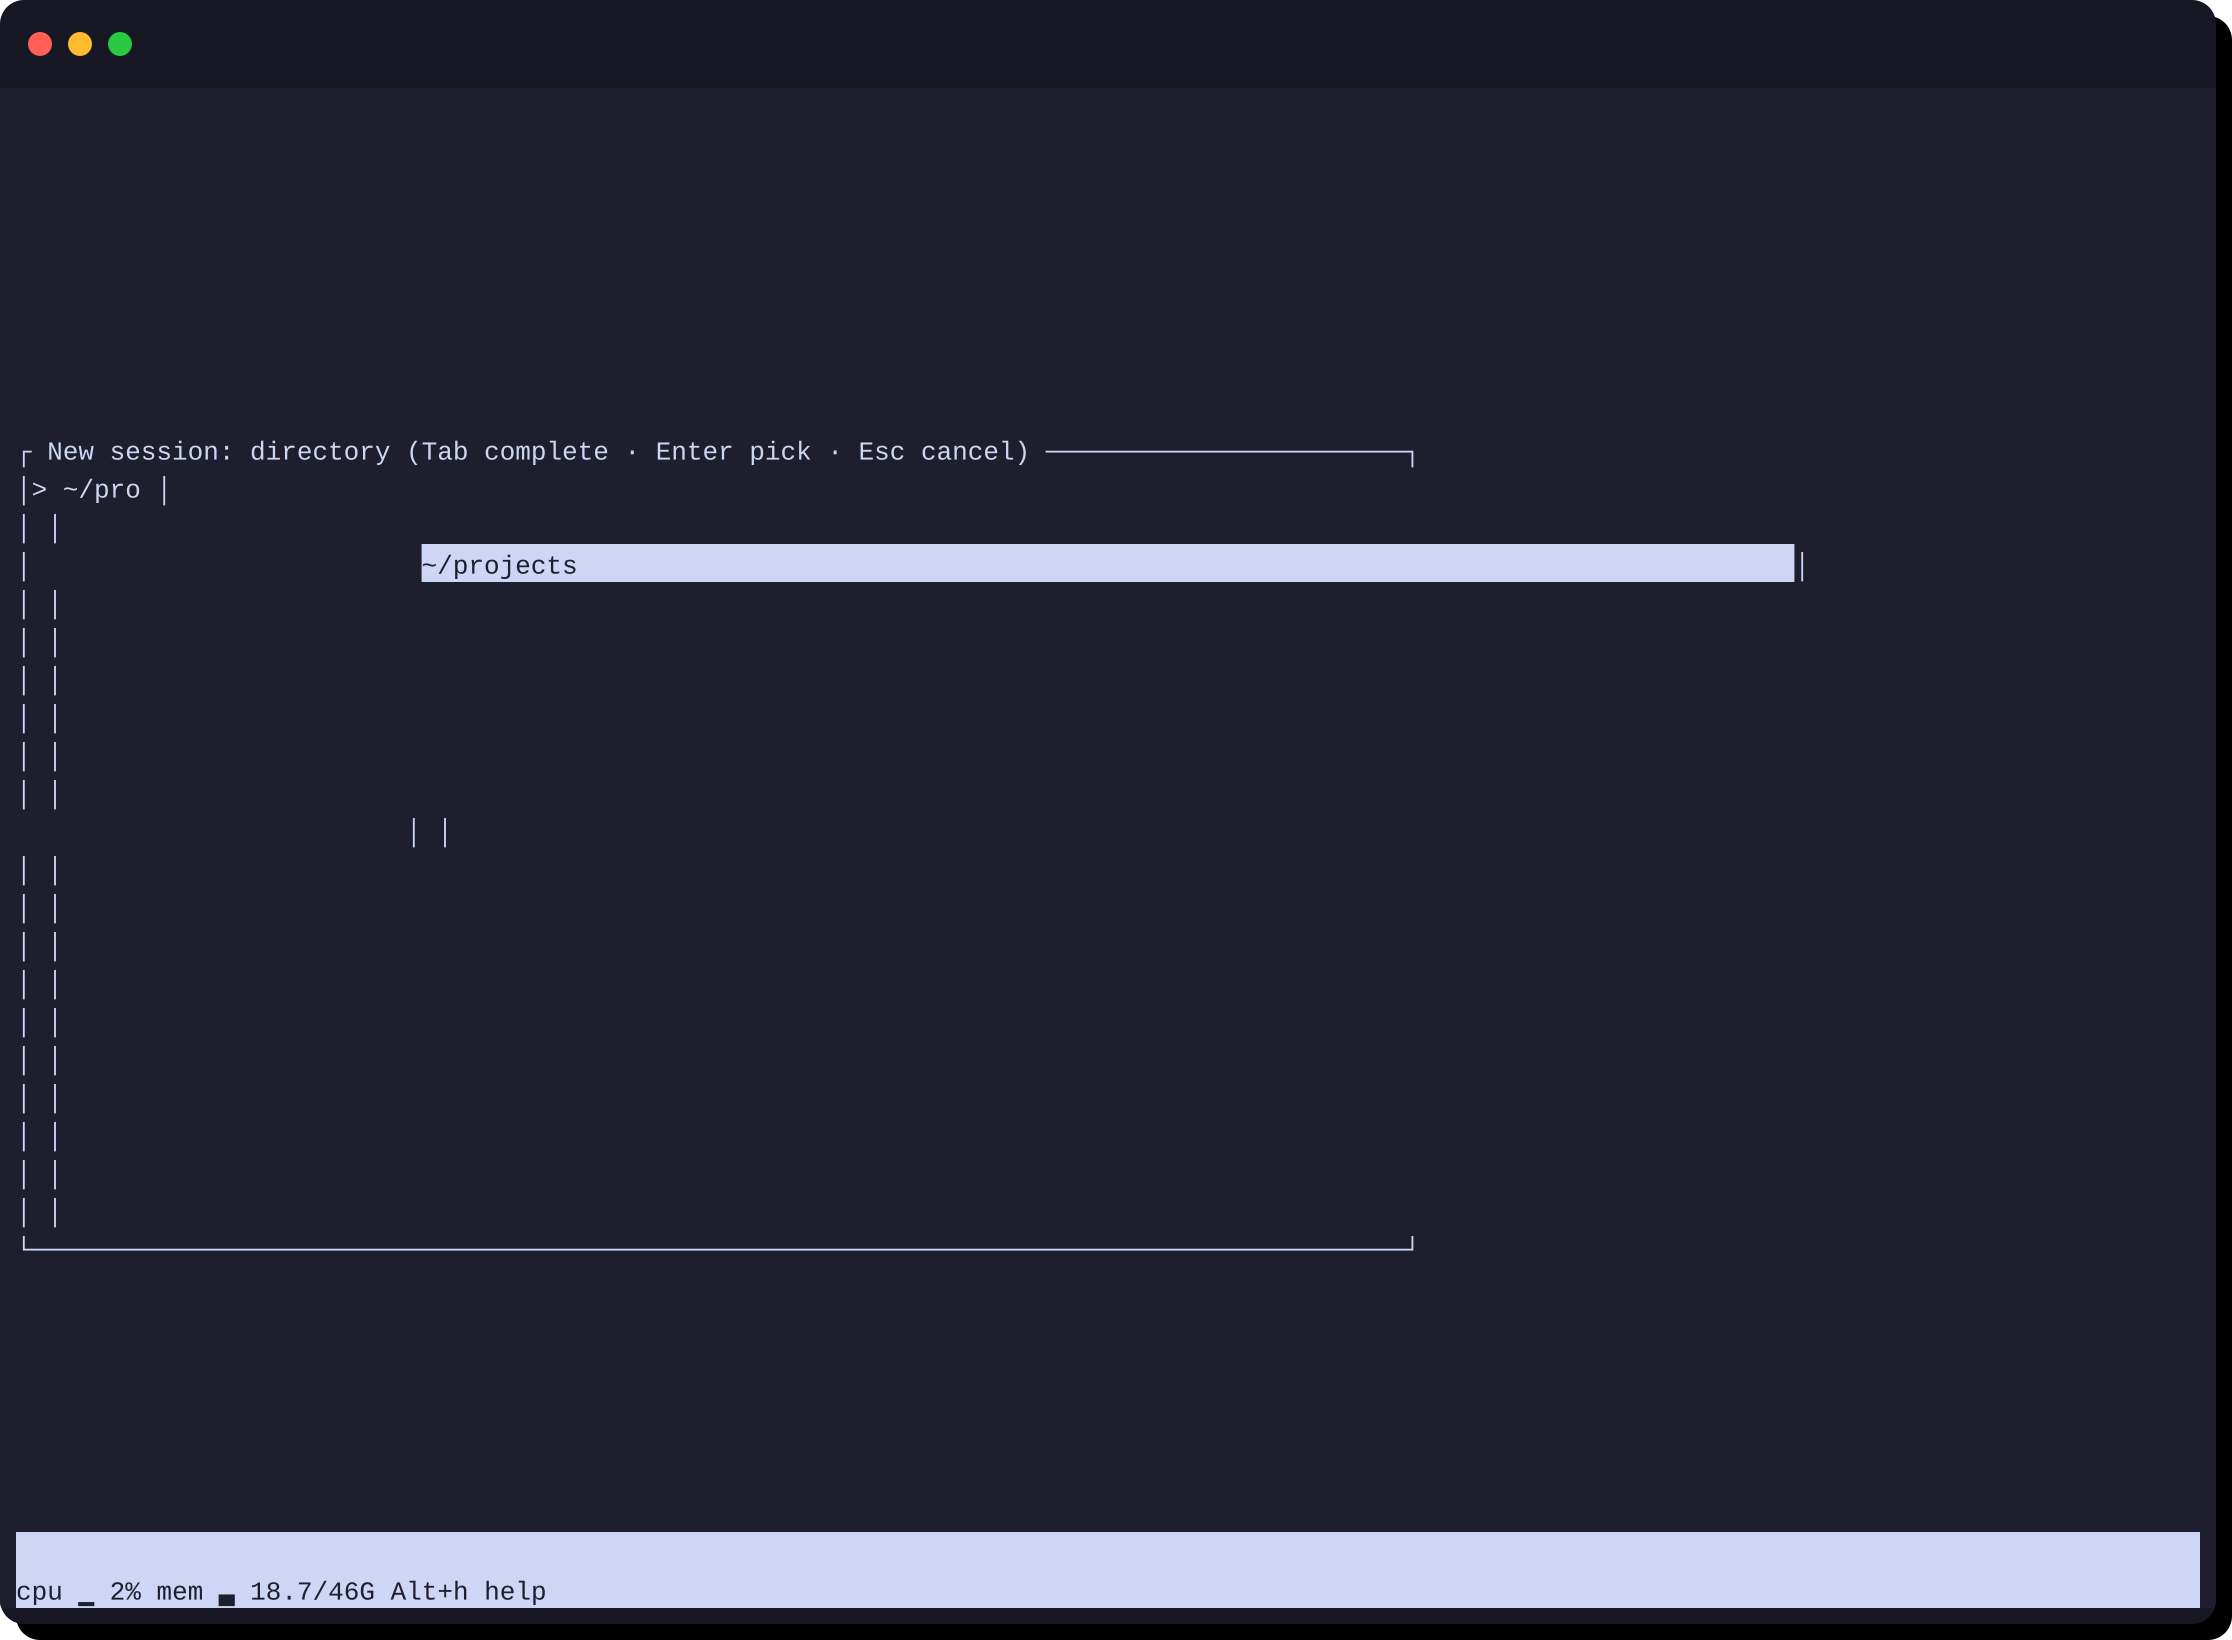
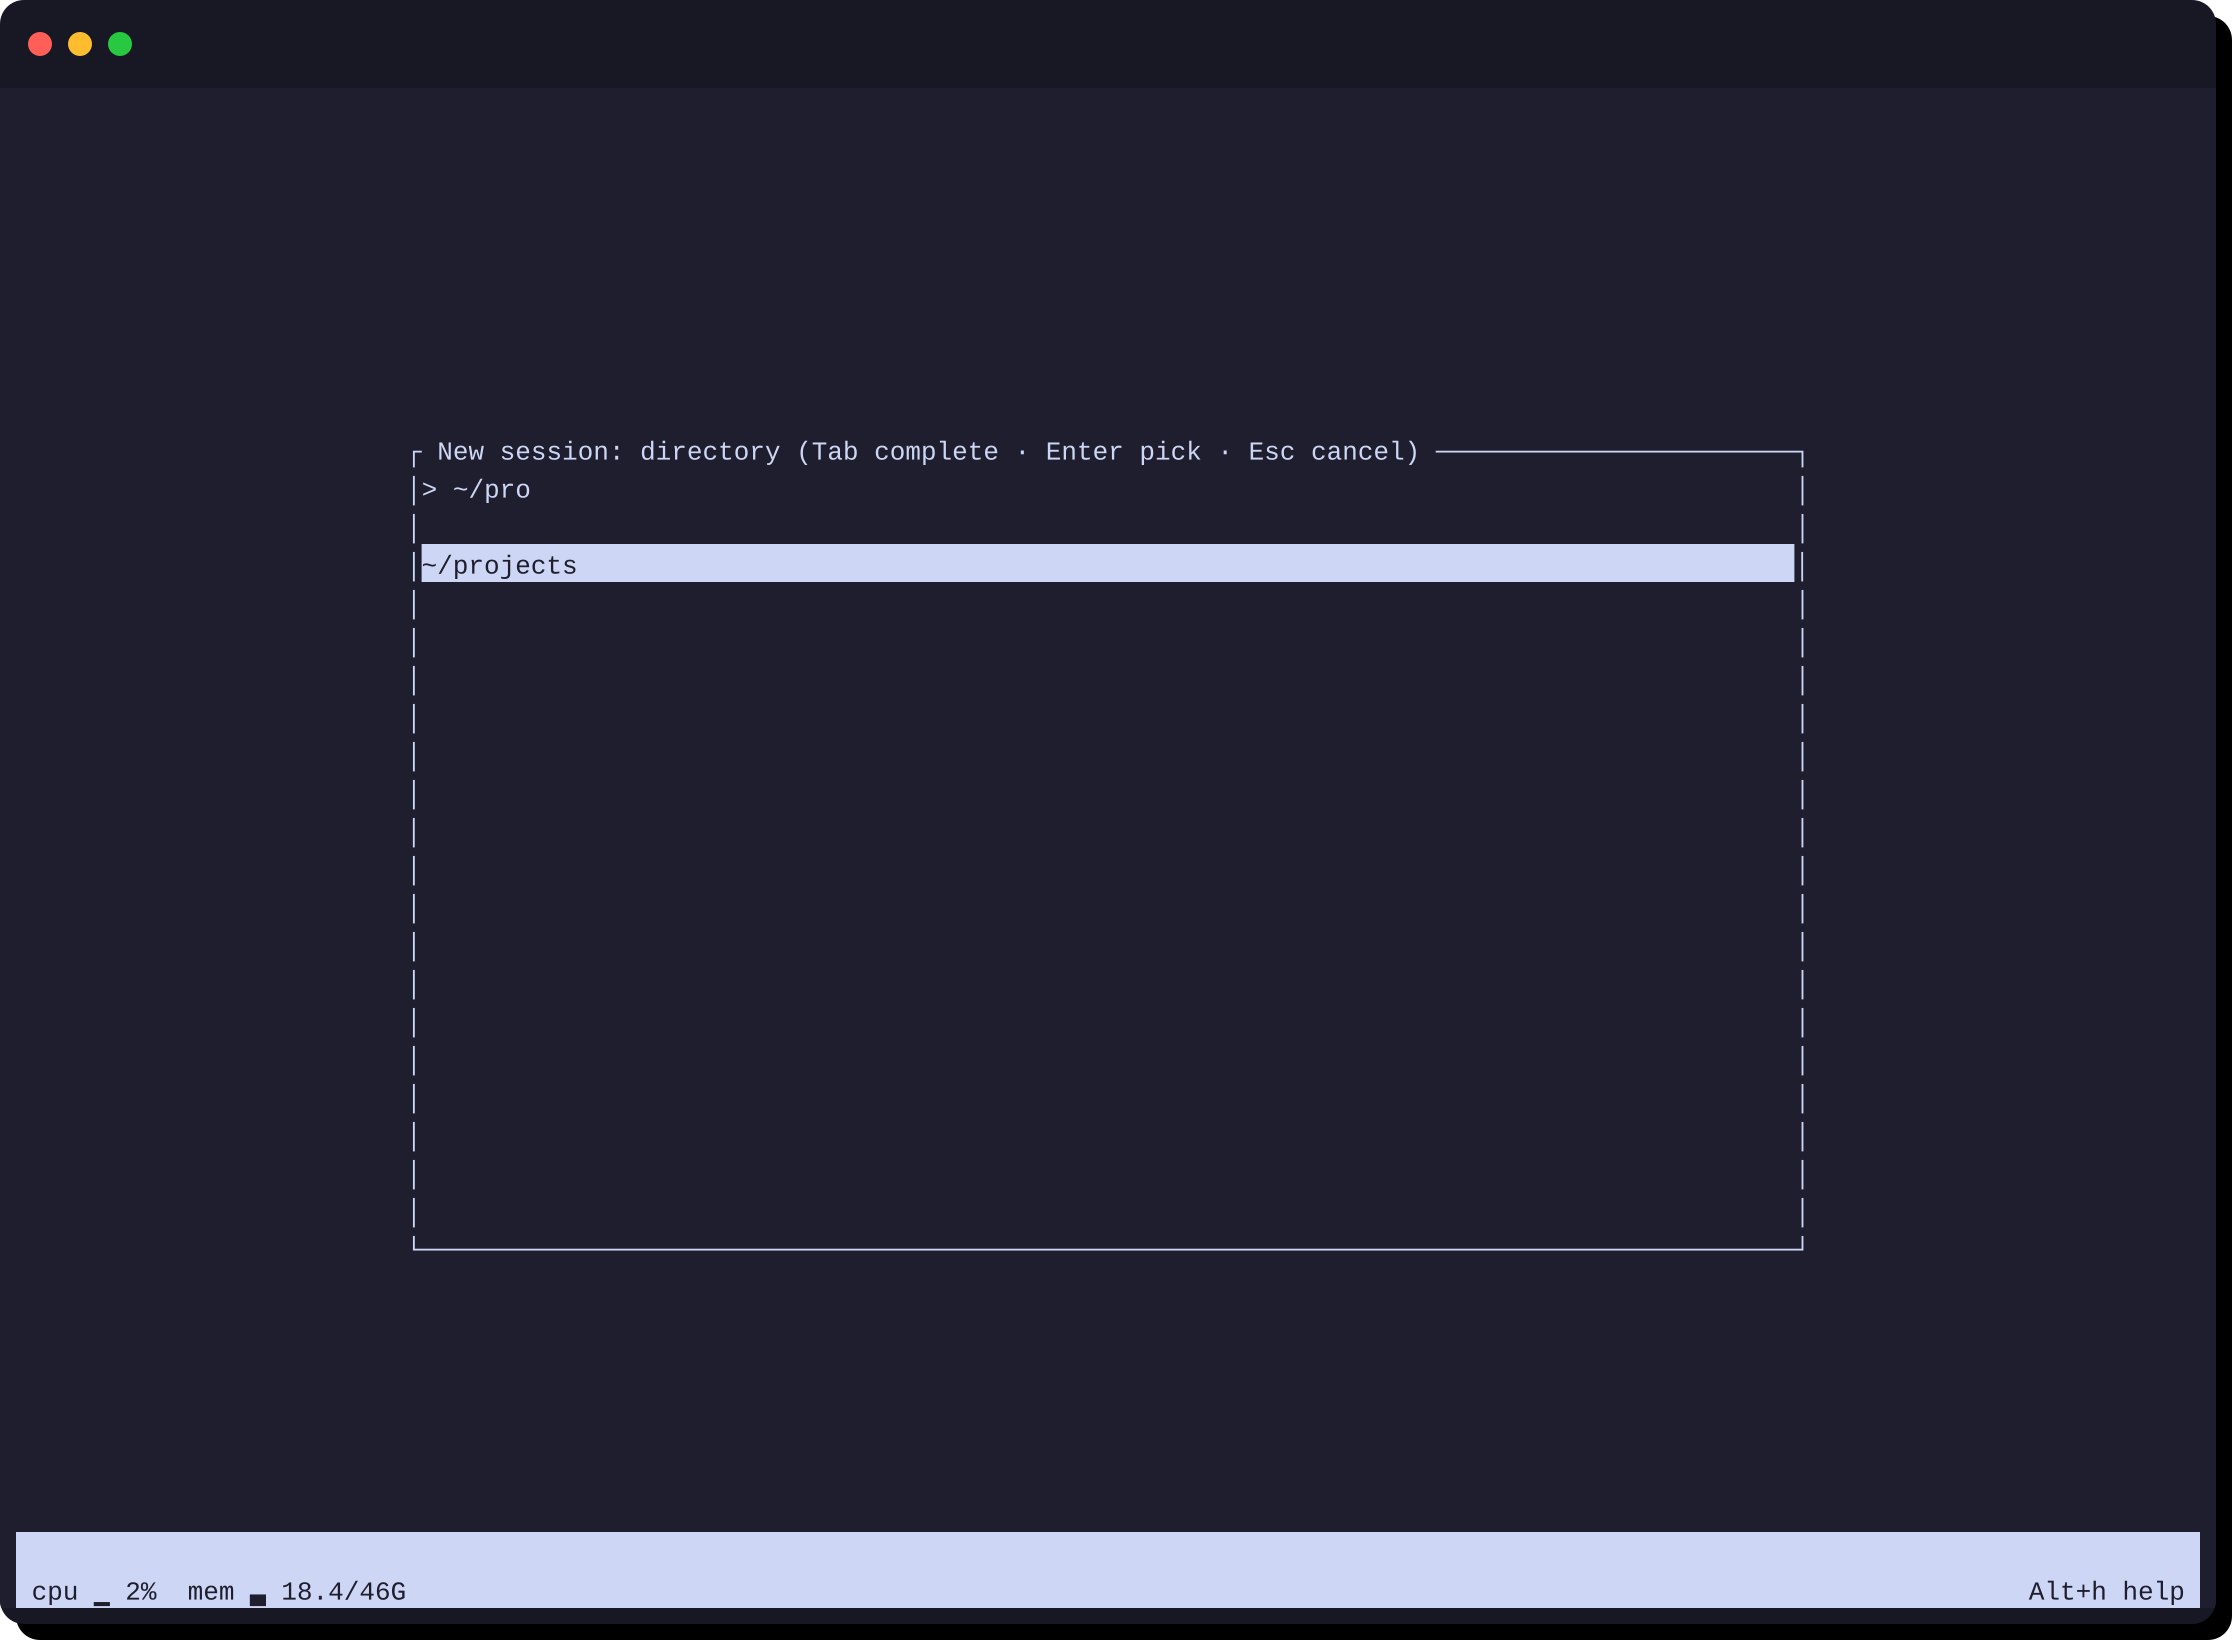
screenshots: preserve whitespace in the SVG export; regenerate
SVG collapsed runs of spaces, so right-aligned status-bar text rendered next to
the left side.

diff --git a/tests/common/mod.rs b/tests/common/mod.rs
@@ -274,7 +274,7 @@ impl ScreenModel {
 
             // ── Text runs ─────────────────────────────────────────────────
             let ty = TITLE_H + row as f64 * LINE_H + LINE_H * 0.78;
-            text_rows.push_str(&format!("<text y=\"{ty:.1}\" class=\"t\">"));
+            text_rows.push_str(&format!("<text y=\"{ty:.1}\" class=\"t\" xml:space=\"preserve\">"));
 
             col = 0;
             while col < cols {
@@ -367,7 +367,7 @@ impl ScreenModel {
             "<svg xmlns=\"http://www.w3.org/2000/svg\" width=\"{svg_w:.0}\" height=\"{svg_h:.0}\" viewBox=\"0 0 {svg_w:.0} {svg_h:.0}\">\n"
         ));
         svg.push_str("  <defs>\n");
-        svg.push_str("    <style>.t { font-family: 'JetBrains Mono', 'Cascadia Code', 'Fira Code', 'Source Code Pro', 'Consolas', 'Courier New', monospace; font-size: 13px; font-feature-settings: 'liga' 0; }</style>\n");
+        svg.push_str("    <style>.t { font-family: 'JetBrains Mono', 'Cascadia Code', 'Fira Code', 'Source Code Pro', 'Consolas', 'Courier New', monospace; font-size: 13px; font-feature-settings: 'liga' 0; white-space: pre; }</style>\n");
         svg.push_str(&format!(
             "    <clipPath id=\"wc\"><rect width=\"{win_w:.0}\" height=\"{win_h:.0}\" rx=\"12\" ry=\"12\"/></clipPath>\n"
         ));
